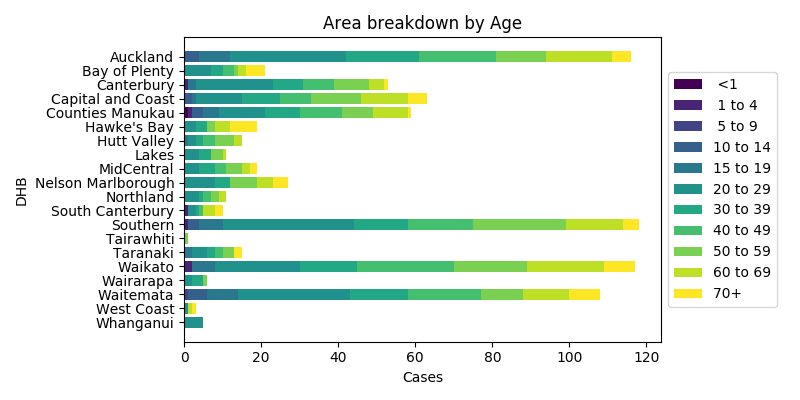
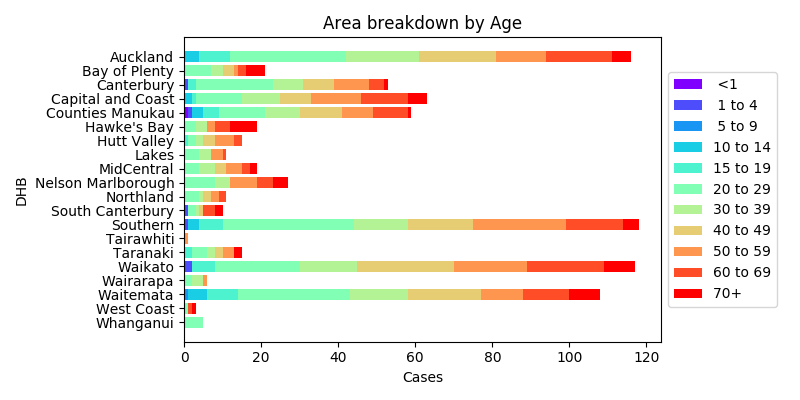
Graph improvements for NZ demographics

Changed region(s): [[0.2188, 0.12, 0.8125, 0.84], [0.8438, 0.18, 0.875, 0.69], [0.8438, 0.72, 0.875, 0.75]]

diff --git a/NZModel/nz_data.py b/NZModel/nz_data.py
@@ -171,7 +171,7 @@ groups[2] = groups[1]
 groups[1] = groups[0]
 groups[0] = t
 
-cmap = cm.get_cmap('viridis')
+cmap = cm.get_cmap('rainbow')
 
 plt.gca().set_prop_cycle(color=cmap(np.linspace(0,1,len(groups))))
 
@@ -240,17 +240,29 @@ plt.xlabel("Cases")
 plt.tight_layout(rect=(0,0,0.85,1))
 plt.savefig("AgeSex.png")
 
+###################################################################
+#   Pie Breakdowns
+###################################################################
+plt.figure(figsize=(8,4))
 
-plt.figure()
-
+plt.subplot(1,2,1)
+plt.title("Sex")
 cmap = cm.get_cmap('Set2')
 plt.gca().set_prop_cycle(color=[cmap(5), cmap(2), cmap(1)])
 
 tb1 = data.pivot_table(values="Count", index = ["Sex"], aggfunc="count")
 pi1 = tb1["Count"]
-
-
 plt.pie(pi1.values, labels=pi1.index.values, autopct='%1.1f%%')
 plt.gca().set_aspect("equal")
-plt.savefig("Sex.png")
+
+plt.subplot(1,2,2)
+cmap = cm.get_cmap('Set2')
+plt.gca().set_prop_cycle(color=cmap(np.arange(5)))
+plt.title("International Travel")
+data["International travel"] = data["International travel"].fillna("Unspecified")
+pi = data.pivot_table(values="Count", index = ["International travel"], aggfunc="count")["Count"]
+plt.pie(pi.values, labels=pi.index.values, autopct='%1.1f%%',)
+plt.gca().set_aspect("equal")
+
+plt.savefig("Pies.png")
 plt.show()

diff --git a/README.md b/README.md
@@ -114,7 +114,7 @@ We can also look at the relationship between age, sex and DHB region of the infe
 
 ![Cases in Age group by Sex](https://raw.githubusercontent.com/mchilcott/TrackingCOVID19/master/NZModel/AgeSex.png)
 
-![Cases by Sex](https://raw.githubusercontent.com/mchilcott/TrackingCOVID19/master/NZModel/Sex.png)
+![Cases by Sex](https://raw.githubusercontent.com/mchilcott/TrackingCOVID19/master/NZModel/Pies.png)
 
 
 
